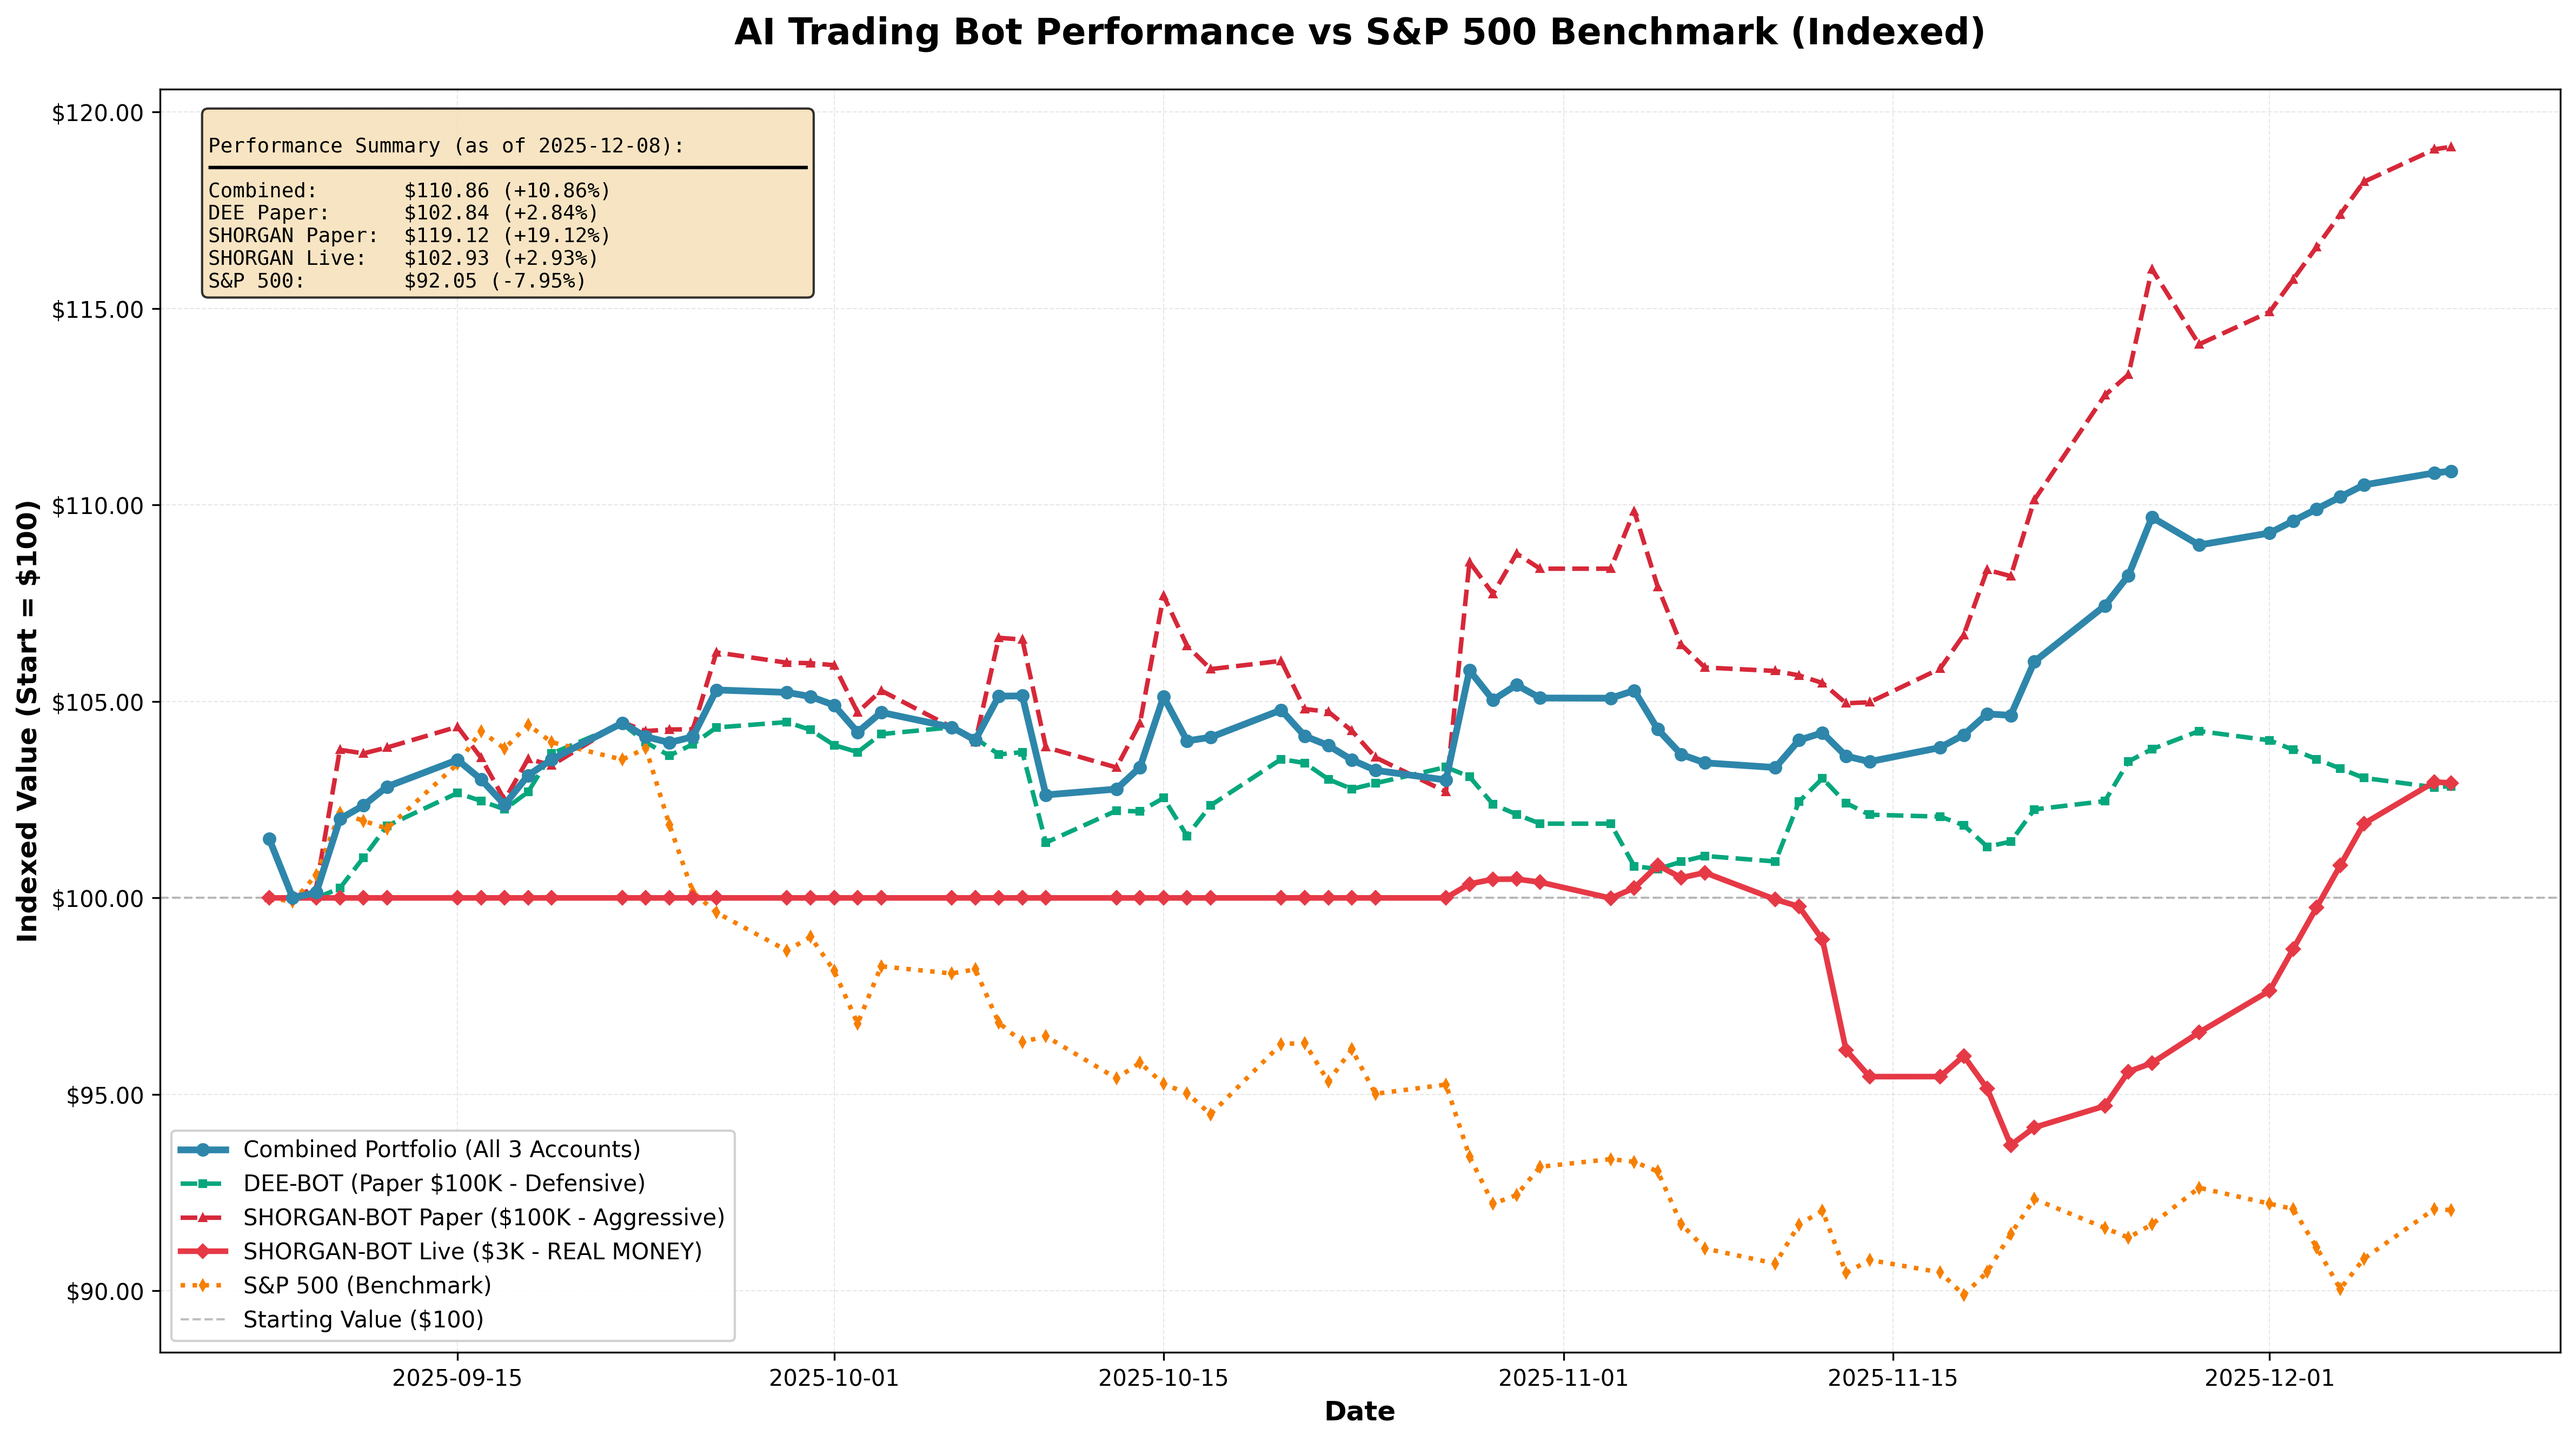
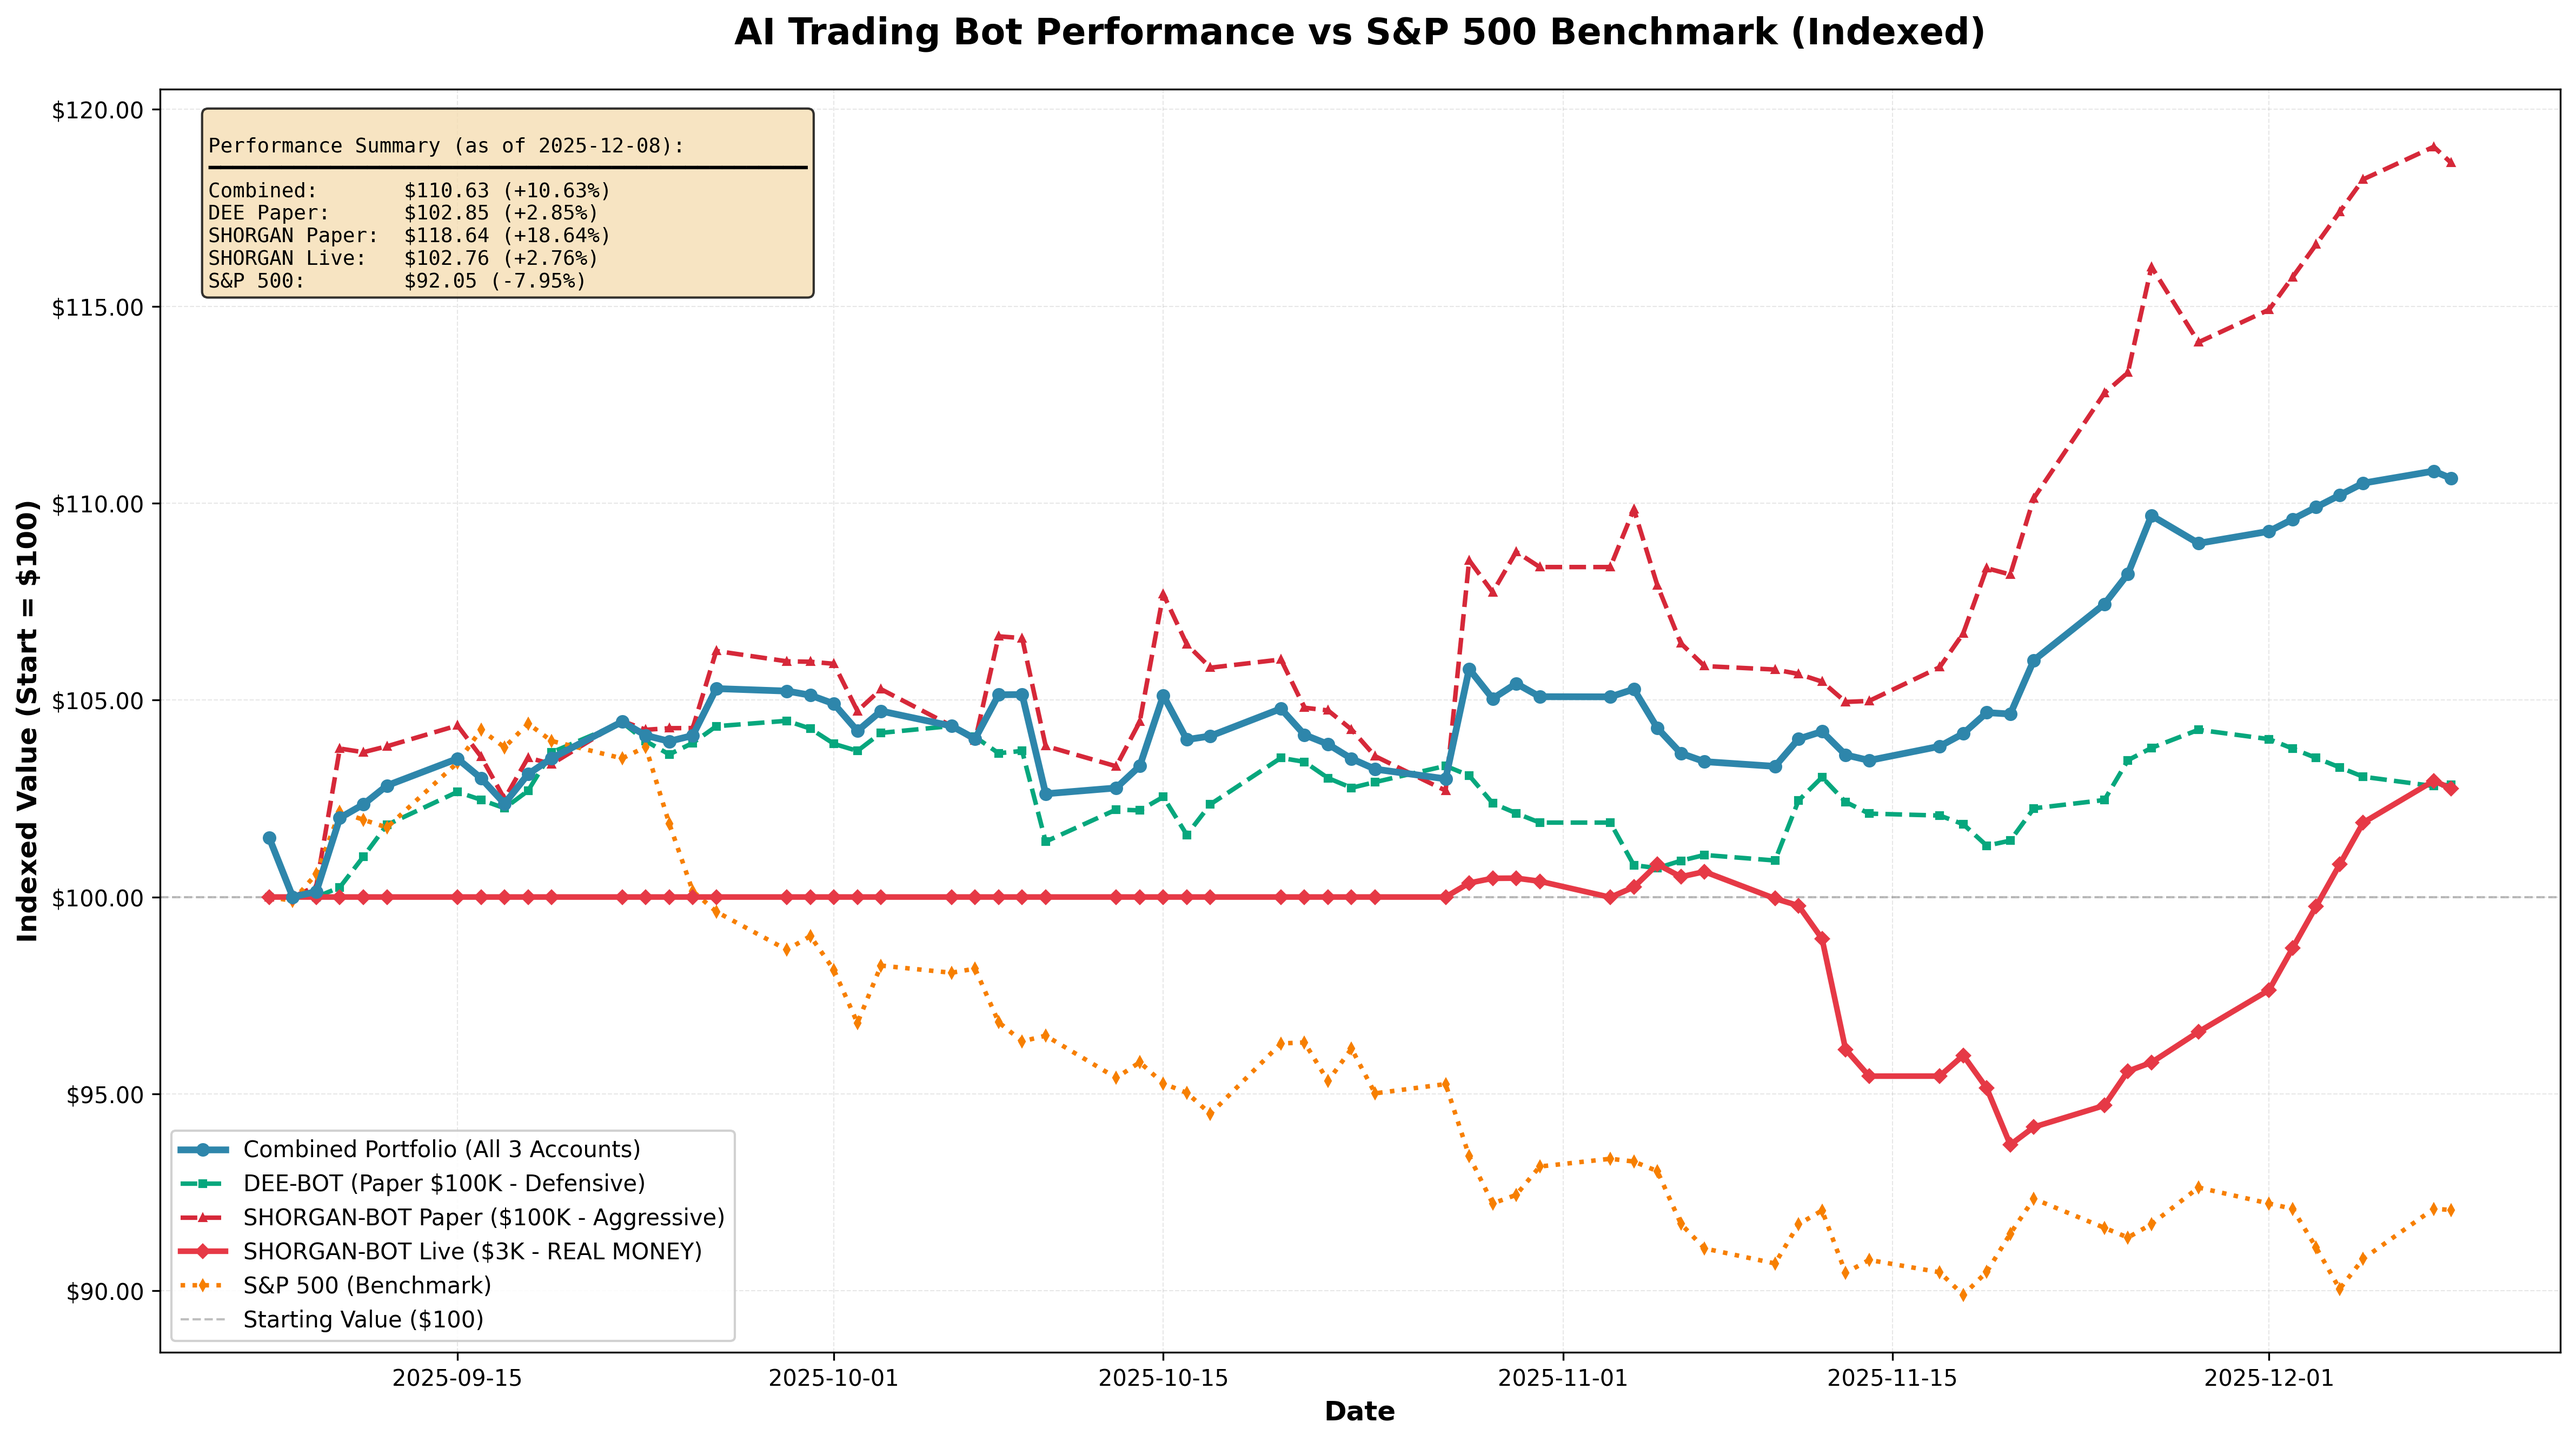
feat: auto-update daily performance data points
Performance graph now automatically:
1. Adds today's data point from live Alpaca portfolio values
2. Backfills any missing trading days via interpolation
3. Handles market holidays (skips non-trading days)
4. Sends updated graph to Telegram

New functions:
- update_performance_history(): Fetches current values, adds to JSON
- backfill_missing_days(): Interpolates gaps in historical data
- is_trading_day(): Checks weekdays and excludes holidays

This ensures continuous daily data points without manual intervention.

🤖 Generated with [Claude Code](https://claude.com/claude-code)

diff --git a/scripts/performance/generate_performance_graph.py b/scripts/performance/generate_performance_graph.py
@@ -649,6 +649,220 @@ SHORGAN Live:   ${shorgan_live_indexed_final:.2f} ({metrics['shorgan_live_return
 
     return fig, metrics
 
+def is_trading_day(date):
+    """Check if a date is a trading day (weekday, not a holiday)"""
+    # Simple check: weekday only (Monday=0, Friday=4)
+    if date.weekday() > 4:  # Saturday or Sunday
+        return False
+
+    # Major US market holidays (approximate - not exhaustive)
+    holidays = [
+        '2025-01-01',  # New Year's Day
+        '2025-01-20',  # MLK Day
+        '2025-02-17',  # Presidents Day
+        '2025-04-18',  # Good Friday
+        '2025-05-26',  # Memorial Day
+        '2025-06-19',  # Juneteenth
+        '2025-07-04',  # Independence Day
+        '2025-09-01',  # Labor Day
+        '2025-11-27',  # Thanksgiving
+        '2025-11-28',  # Day after Thanksgiving (early close, treating as holiday)
+        '2025-12-25',  # Christmas
+    ]
+
+    date_str = date.strftime('%Y-%m-%d')
+    return date_str not in holidays
+
+
+def backfill_missing_days():
+    """Backfill any missing trading days in the performance history"""
+    try:
+        with open(PERFORMANCE_JSON, 'r') as f:
+            data = json.load(f)
+
+        records = data.get('daily_records', [])
+        if len(records) < 2:
+            return
+
+        # Get existing dates
+        existing_dates = set(r['date'] for r in records)
+
+        # Find date range
+        dates = [datetime.strptime(d, '%Y-%m-%d') for d in existing_dates]
+        min_date = min(dates)
+        max_date = max(dates)
+
+        # Find missing trading days
+        missing_dates = []
+        current = min_date + timedelta(days=1)
+        while current < max_date:
+            date_str = current.strftime('%Y-%m-%d')
+            if is_trading_day(current) and date_str not in existing_dates:
+                missing_dates.append(date_str)
+            current += timedelta(days=1)
+
+        if not missing_dates:
+            return
+
+        print(f"[INFO] Found {len(missing_dates)} missing trading days to backfill")
+
+        # Sort records by date to enable interpolation
+        records_sorted = sorted(records, key=lambda x: x['date'])
+
+        for missing_date in missing_dates:
+            # Find surrounding records for interpolation
+            prev_record = None
+            next_record = None
+
+            for i, r in enumerate(records_sorted):
+                if r['date'] < missing_date:
+                    prev_record = r
+                elif r['date'] > missing_date and next_record is None:
+                    next_record = r
+                    break
+
+            if prev_record and next_record:
+                # Linear interpolation
+                prev_date = datetime.strptime(prev_record['date'], '%Y-%m-%d')
+                next_date = datetime.strptime(next_record['date'], '%Y-%m-%d')
+                target_date = datetime.strptime(missing_date, '%Y-%m-%d')
+
+                total_days = (next_date - prev_date).days
+                elapsed_days = (target_date - prev_date).days
+                progress = elapsed_days / total_days if total_days > 0 else 0.5
+
+                # Interpolate values
+                dee_val = prev_record['dee_bot']['value'] + \
+                          (next_record['dee_bot']['value'] - prev_record['dee_bot']['value']) * progress
+                shorgan_val = prev_record['shorgan_bot']['value'] + \
+                              (next_record['shorgan_bot']['value'] - prev_record['shorgan_bot']['value']) * progress
+
+                # Handle shorgan_live if it exists
+                if 'shorgan_live' in prev_record and 'shorgan_live' in next_record:
+                    live_val = prev_record['shorgan_live']['value'] + \
+                               (next_record['shorgan_live']['value'] - prev_record['shorgan_live']['value']) * progress
+                else:
+                    live_val = 0
+
+                combined = dee_val + shorgan_val + live_val
+
+                new_record = {
+                    'date': missing_date,
+                    'timestamp': f'{missing_date}T16:00:00',
+                    'dee_bot': {
+                        'value': round(dee_val, 2),
+                        'daily_pnl': 0,
+                        'total_return': round((dee_val - 100000) / 100000 * 100, 6)
+                    },
+                    'shorgan_bot': {
+                        'value': round(shorgan_val, 2),
+                        'daily_pnl': 0,
+                        'total_return': round((shorgan_val - 100000) / 100000 * 100, 6)
+                    },
+                    'shorgan_live': {
+                        'value': round(live_val, 2),
+                        'daily_pnl': 0,
+                        'total_return': round((live_val - 3000) / 3000 * 100, 6) if live_val > 0 else 0
+                    },
+                    'combined': {
+                        'total_value': round(combined, 2),
+                        'total_daily_pnl': 0,
+                        'total_return': round((dee_val + shorgan_val - 200000) / 200000 * 100, 6),
+                        'total_positions': 0,
+                        'total_orders_today': 0
+                    }
+                }
+
+                records.append(new_record)
+                print(f"  [BACKFILL] {missing_date}: Combined=${combined:,.2f}")
+
+        # Sort and save
+        data['daily_records'] = sorted(records, key=lambda x: x['date'])
+
+        with open(PERFORMANCE_JSON, 'w') as f:
+            json.dump(data, f, indent=2)
+
+        print(f"[SUCCESS] Backfilled {len(missing_dates)} missing days")
+
+    except Exception as e:
+        print(f"[WARNING] Backfill failed: {e}")
+
+
+def update_performance_history():
+    """Add today's data point to performance history if not already present"""
+    try:
+        today = datetime.now().strftime('%Y-%m-%d')
+
+        # Load existing data
+        with open(PERFORMANCE_JSON, 'r') as f:
+            data = json.load(f)
+
+        # Check if today's record already exists
+        existing_dates = [r['date'] for r in data.get('daily_records', [])]
+        if today in existing_dates:
+            print(f"[INFO] Today's data point ({today}) already exists in history")
+            return True
+
+        # Get current portfolio values from Alpaca
+        current_values = get_current_portfolio_values()
+        if not current_values:
+            print("[ERROR] Could not fetch current portfolio values")
+            return False
+
+        # Create new record
+        dee_val = current_values['dee_bot']
+        shorgan_val = current_values['shorgan_paper']
+        live_val = current_values['shorgan_live']
+        combined = dee_val + shorgan_val + live_val
+        shorgan_live_deposits = current_values['shorgan_live_deposits']
+
+        new_record = {
+            'date': today,
+            'timestamp': f'{today}T16:00:00',
+            'dee_bot': {
+                'value': round(dee_val, 2),
+                'daily_pnl': 0,
+                'total_return': round((dee_val - 100000) / 100000 * 100, 6)
+            },
+            'shorgan_bot': {
+                'value': round(shorgan_val, 2),
+                'daily_pnl': 0,
+                'total_return': round((shorgan_val - 100000) / 100000 * 100, 6)
+            },
+            'shorgan_live': {
+                'value': round(live_val, 2),
+                'daily_pnl': 0,
+                'total_return': round((live_val - shorgan_live_deposits) / shorgan_live_deposits * 100, 6)
+            },
+            'combined': {
+                'total_value': round(combined, 2),
+                'total_daily_pnl': 0,
+                'total_return': round((dee_val + shorgan_val - 200000) / 200000 * 100, 6),
+                'total_positions': 0,
+                'total_orders_today': 0
+            }
+        }
+
+        # Add new record
+        data['daily_records'].append(new_record)
+
+        # Save updated data
+        with open(PERFORMANCE_JSON, 'w') as f:
+            json.dump(data, f, indent=2)
+
+        print(f"[SUCCESS] Added today's data point ({today}):")
+        print(f"  DEE-BOT: ${dee_val:,.2f}")
+        print(f"  SHORGAN Paper: ${shorgan_val:,.2f}")
+        print(f"  SHORGAN Live: ${live_val:,.2f}")
+        print(f"  Combined: ${combined:,.2f}")
+
+        return True
+
+    except Exception as e:
+        print(f"[ERROR] Failed to update performance history: {e}")
+        return False
+
+
 def get_todays_performance():
     """Calculate today's gains/losses for each account"""
     try:
@@ -826,6 +1040,14 @@ def main():
     """Main execution function"""
     print("Generating Performance Comparison Graph...")
     print(f"Data source: {PERFORMANCE_JSON}")
+
+    # First, update performance history with today's data point
+    print("\n--- Updating Performance History ---")
+    update_performance_history()
+
+    # Backfill any missing trading days
+    print("\n--- Checking for Missing Days ---")
+    backfill_missing_days()
 
     # Load portfolio performance data
     portfolio_df = create_portfolio_dataframe()
